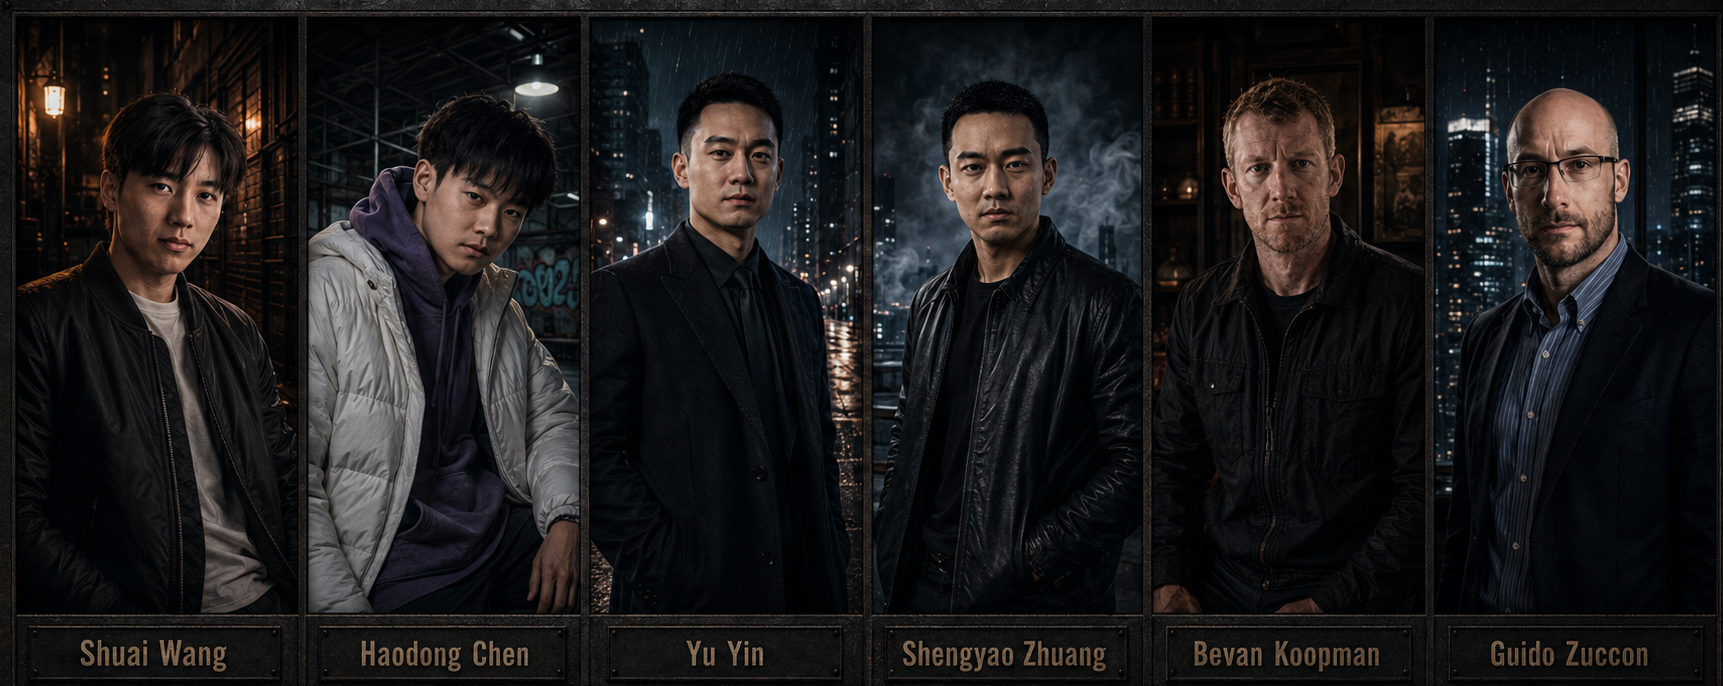
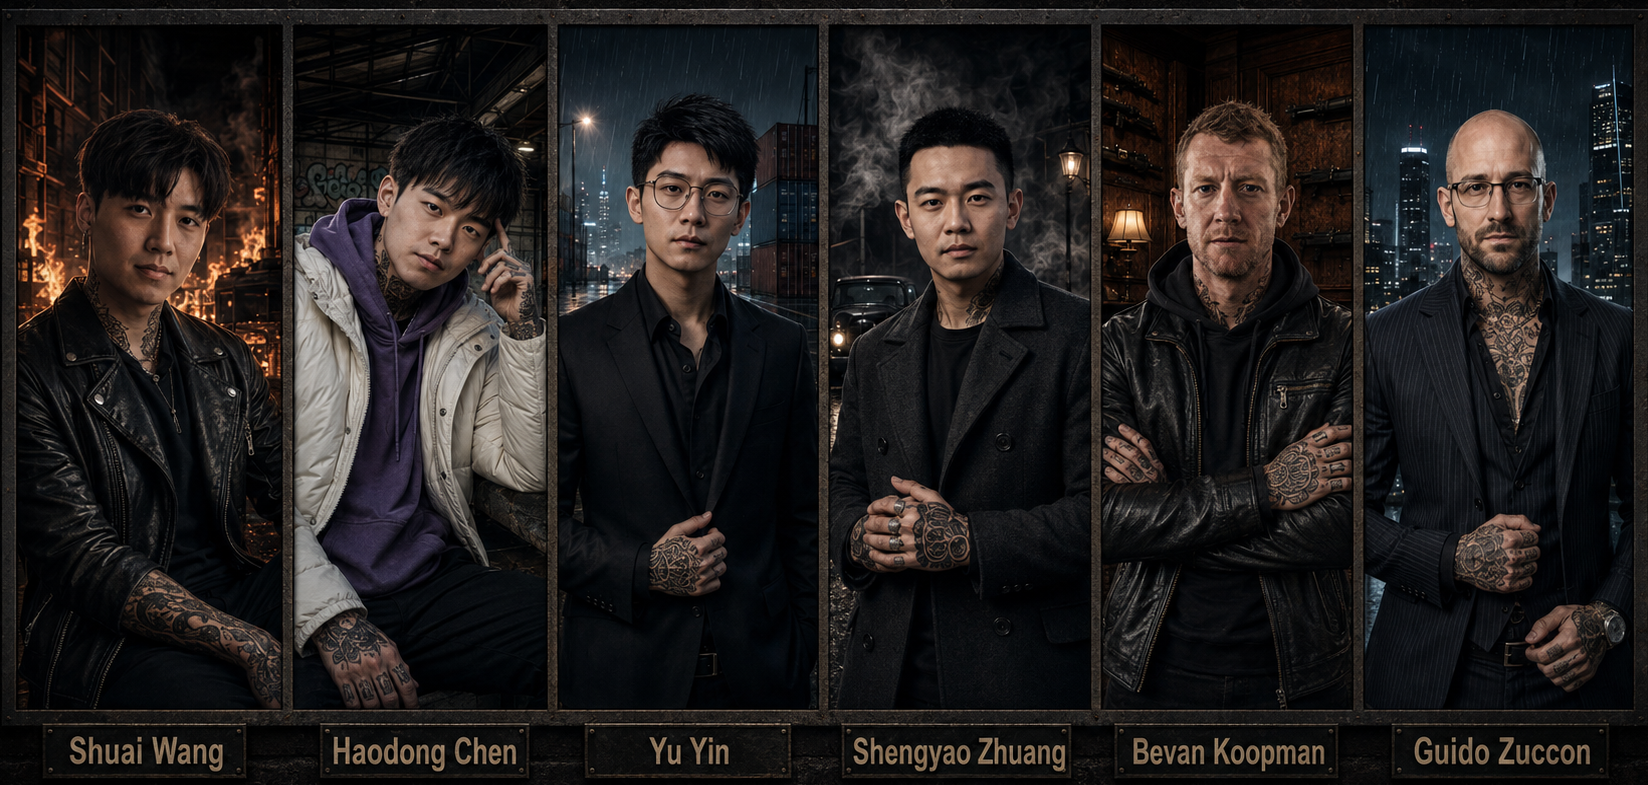
update

diff --git a/docs/index.html b/docs/index.html
@@ -830,51 +830,53 @@ const I18N = [
   ['h1', 0, '<span class="a">Search.</span> <span class="b">Inspect.</span> <span class="c">Fetch.</span>',
    '<span class="a">Hunt.</span> <span class="b">Interrogate.</span> <span class="c">Extract.</span>',
    '<span class="a">Hunt.</span> <span class="b">Interrogate.</span> <span class="c">Extract.</span>'],
-  ['.sub', 0, '一个可组合的深度研究智能体库：带上你自己的语料，就能构建并评测智能体。<b>Sieve</b> 是其中的布尔式「搜索、检视、取读」方法，让智能体先略读、再细读。'],
-  ['.cta .btn', 1, '阅读论文'], ['.cta .btn', 2, '&#9654; 试试在线演示'],
-  ['.caption', 0, '这块面板由一次真实的智能体运行驱动，不是视频',
-   'the night shift runs this exact board. Still not a video', '夜班跑的也是真实运行，依然不是视频'],
+  ['.sub', 0, '一个模块化的深度研究智能体库：换上自己的语料，就能搭建并评测各种检索策略。<b>Sieve</b> 是论文提出的方法，靠布尔检索让智能体<i>先略读，再细读</i>。'],
+  ['.cta .btn', 1, '阅读论文'], ['.cta .btn', 2, '&#9654; 在线演示'],
+  ['.caption', 0, '上面这段动画来自一次真实的智能体运行记录，不是视频',
+   'the night shift runs this exact board. Still not a video', '夜班跑的也是真实记录，还是不是视频'],
   ['#results .sec-k', 0, '主要结果'],
-  ['#results h2', 0, '准确率更高，token 最多省一半'],
-  ['#results .lead', 0, '与 BM25 Search&ndash;Visit 基线在完全相同的预算下对比（k=5，单次阅读上限 12,000 token，双方摘要均为 32 token，至多 100 步）。先略读结构并不是拿准确率换成本：三个数据集上，准确率和成本同时占优。'],
-  ['#results .stat .l', 0, 'BrowseComp-Plus 上每回合的 token 数，判分同时提高 <b>+2.5</b>'],
-  ['#results .stat .l', 1, 'MuSiQue 上的 token 数，EM 提高 <b>+3.1</b>。基线读得越多，省得越多'],
-  ['#results .stat .l', 2, '三个数据集全部做到准确率更高、成本更低'],
+  ['#results h2', 0, '准确率更高，token 开销少三到五成'],
+  ['#results .lead', 0, '在完全相同的预算下（k=5，单次阅读上限 12,000 token，双方摘要都是 32 token，最多 100 步）与 BM25 Search&ndash;Visit 基线对比。先略读结构并不是拿准确率换成本：三个数据集上，准确率和开销都是 Sieve 占优。'],
+  ['#results .stat .l', 0, 'BrowseComp-Plus 每回合 token 的降幅，评分还高出 <b>2.5</b> 分'],
+  ['#results .stat .l', 1, 'MuSiQue 的 token 降幅，EM 高出 <b>3.1</b>。基线读得越多，省得越多'],
+  ['#results .stat .l', 2, '三个数据集，全部做到准确率更高、开销更低'],
   ['#results table.res th', 0, '数据集'], ['#results table.res th', 1, '准确率（基线 → Sieve）'],
   ['#results table.res th', 2, '每回合 token'],
-  ['#results .lead', 1, '这一效果在不同的智能体底座上同样成立（Qwen-AgentWorld、OpenResearcher），基线消耗的上下文越多，节省越明显。完整表格、消融实验和统计检验见论文。'],
+  ['#results .lead', 1, '换到其他智能体底座（Qwen-AgentWorld、OpenResearcher），结论不变；基线读得越多，省得越明显。完整表格、消融实验和显著性检验见论文。'],
   ['#method .sec-k', 0, '方法'],
-  ['#method h2', 0, '先略读结构，只读要紧的部分'],
-  ['#method .lead', 0, '把整篇文档读进上下文的智能体，大半个窗口都花在用不上的文字上。Sieve 在同一个智能体循环之上拆出四个独立阶段，让智能体先收窄范围，再花钱阅读。'],
-  ['#method .st-card h3', 0, '过滤'], ['#method .st-card h3', 1, '排序'],
-  ['#method .st-card h3', 2, '检视'], ['#method .st-card h3', 3, '取读'],
-  ['#method .st-card p', 0, '智能体写一条 <b>BQL</b> 布尔查询：字段限定（<code>title</code>、<code>section</code>、<code>date</code> 等）配上 <code>AND</code>/<code>OR</code>/<code>NOT</code>、短语和前缀，把整个语料筛成一小批候选。'],
-  ['#method .st-card p', 1, '候选按相关性排序；严格过滤一旦筛到零命中，会自动放宽兜底。'],
-  ['#method .st-card p', 2, '每条结果是一张<b>结构卡片</b>：标题、小节名、命中字段、贴合查询的摘要。不读全文，也能判断这篇文档值不值得读。'],
-  ['#method .st-card p', 3, '智能体只取卡片上选中的<b>那一小节</b>，而不是整篇文档，然后依据读到的证据作答。'],
-  ['#method figcaption', 0, '四个阶段都建立在同一个智能体循环上，每一个都能单独替换。'],
+  ['#method h2', 0, '先看结构，再决定读什么'],
+  ['#method .lead', 0, '把整篇文档塞进上下文的智能体，大部分窗口都浪费在无关文字上。Sieve 把检索拆成四个独立阶段，接在同一个智能体循环上：先收窄范围，再花钱阅读。'],
+  ['#method .st-card h3', 0, '筛选'], ['#method .st-card h3', 1, '排序'],
+  ['#method .st-card h3', 2, '速览'], ['#method .st-card h3', 3, '取读'],
+  ['#method .st-card p', 0, '智能体写一条 <b>BQL</b> 布尔查询：字段限定（<code>title</code>、<code>section</code>、<code>date</code> 等）加上 <code>AND</code>/<code>OR</code>/<code>NOT</code>、短语和前缀，从整个语料里筛出一小批候选。'],
+  ['#method .st-card p', 1, '候选按相关性排序；条件太严筛到零结果时会自动放宽，不会空手而归。'],
+  ['#method .st-card p', 2, '每条结果是一张结构卡片：标题、小节名、命中的字段、和查询相关的摘要。不用读正文，就能判断这篇文档值不值得读。'],
+  ['#method .st-card p', 3, '智能体只读卡片里选中的那一小节，而不是整篇文档，再根据读到的内容作答。'],
+  ['#method figcaption', 0, '四个阶段跑在同一个智能体循环上，每个都能单独替换。'],
   ['#library .sec-k', 0, '代码库'],
-  ['#library h2', 0, '带上语料、模型和策略，其余框架都是现成的'],
-  ['#library .lead', 0, '一个智能体循环跑遍所有实验条件。语料、模型、检索器和工具集通过五个小协议接入；论文里的十几种条件（BM25、稠密、混合、Indri、DCI 以及各类 BQL 变体，覆盖文档和代码）每种只占注册表一行。'],
-  ['#library .feat h3', 0, '加新方法，一个装饰器搞定'],
-  ['#library .feat h3', 1, '评测完整，结果可复现'],
-  ['#library .feat h3', 2, 'BQL：写错查询也不怕'],
+  ['#library h2', 0, '语料、模型、策略随便换，评测框架是现成的'],
+  ['#library .lead', 0, '一个智能体循环跑所有实验。语料、模型、检索器和工具集通过五个小接口接入；论文里的十几种实验条件（BM25、稠密检索、混合、Indri、DCI、各种 BQL 变体，文档和代码都有）每种只需要在注册表里加一行。'],
+  ['#library .feat h3', 0, '一行注册新方法'],
+  ['#library .feat h3', 1, '结果一键复现'],
+  ['#library .feat h3', 2, 'BQL 查询，写错也不崩'],
   ['#library .feat h3', 3, '基线一应俱全'],
-  ['#library .feat p', 0, '新建一个文件，给构建函数加上 <code>@register("my_method")</code>，评测框架就会自动发现它，其他地方一行都不用改。'],
-  ['#library .feat p', 1, '命令行评测框架自带逐步 token 记账、LLM 判分和公开语料，论文里的表格一条命令就能重新生成。'],
-  ['#library .feat p', 2, '一门小巧的结构化查询语言，带参考执行器和 Lucene 后端。查询解析出错时，错误会作为观察返回给智能体自己修正，程序绝不会崩溃。'],
-  ['#library .feat p', 3, '论文里对比过的所有对照方法，包括先检索后阅读、整篇访问、稠密检索和 agentic grep，都在同一个循环下开箱即用。'],
-  ['#library figcaption', 0, '一个智能体循环居中，语料、模型、策略、检索器和评测器都围绕它独立替换。'],
+  ['#library .feat p', 0, '新建一个文件，给构建函数加上 <code>@register("my_method")</code>，评测框架会自动加载，其他地方一行都不用改。'],
+  ['#library .feat p', 1, '命令行评测自带每一步的 token 统计、LLM 评分和公开语料，论文里的表格一条命令就能重新跑出来。'],
+  ['#library .feat p', 2, '很小的一门结构化查询语言，带参考实现和 Lucene 后端。查询写错时，报错会作为观察结果返回给智能体自己改，程序不会崩。'],
+  ['#library .feat p', 3, '论文里所有对比方法都带上了：先检索后阅读、整篇阅读、稠密检索、agentic grep，全部跑在同一个循环里。'],
+  ['#library figcaption', 0, '中间是同一个智能体循环，语料、模型、策略、检索器和评测器都可以独立替换。'],
   ['#demo .sec-k', 0, '演示', 'The crime scene', '案发现场'],
-  ['#demo h2', 0, '用你自己的问题，看它怎么想',
-   'Watch it prowl, with your own questions', '用你的问题，看它夜里怎么巡'],
-  ['.badge', 0, '预录回放。真正的演示在你自己的电脑上运行',
-   'pre-recorded s&eacute;ance &middot; the real thing haunts your machine', '预录的降灵回放。真家伙在你自己的电脑里出没'],
+  ['#demo h2', 0, '提个问题，看它怎么找答案',
+   'Watch it prowl, with your own questions', '夜里提个问题，看它怎么查案'],
+  ['.badge', 0, '预先录制的回放，完整版要在自己电脑上跑',
+   'pre-recorded s&eacute;ance &middot; the real thing haunts your machine', '深夜档回放，完整版在你电脑里出没'],
   ['#pvReplay', 0, '&#8635; 重播'],
-  ['.demo-band h3', 0, '在线演示：两个策略，同一个问题，现场对决。'],
-  ['.demo-band p', 0, '在 101 篇真实的 BrowseComp-Plus 文档上随便提问。小侦探在工具站之间来回跳，文档墙随着检索和阅读一格格亮起，计费表实时累计每个 token、每一分钱。让 <b style="color:var(--teal)">Sieve</b> 和 <b style="color:var(--violet)">Search-Visit</b> 同场竞速，论文的结论就在你眼前发生。'],
-  ['#team .sec-k', 0, '团队'], ['#team h2', 0, '出自 ielab', 'The ielab night shift', 'ielab 夜班组'],
-  ['#cite .sec-k', 0, '引用'], ['#cite h2', 0, '如果你用到 Sieve 或这套代码库'],
+  ['.demo-band h3', 0, '同一个问题，两种策略，现场对决。'],
+  ['.demo-band p', 0, '在 101 篇真实的 BrowseComp-Plus 文档上随便提问。小家伙在各个工具之间跑来跑去，右边的文档墙亮一格就代表读过一篇，计费器实时显示每个 token 花了多少钱。让 <b style="color:var(--teal)">Sieve</b> 和 <b style="color:var(--violet)">Search-Visit</b> 同时开跑，论文的结论当场验证。'],
+  ['#team .sec-k', 0, '团队'],
+  ['#team h2', 0, '我们来自 ielab', 'The ielab night shift', 'ielab 夜班组'],
+  ['#cite .sec-k', 0, '引用'],
+  ['#cite h2', 0, '用到了 Sieve 或这套代码，请引用'],
 ];
 const LBLS = {
   en: { final:'Final answer', grounded:'&check; grounded in the fetched section',
@@ -882,11 +884,11 @@ const LBLS = {
         note:'the same document, read two ways. Measured with the library&rsquo;s own tools.',
         inspect: n => 'inspecting ' + n + ' result cards: titles, section names, matched fields, snippets',
         pct: x => x + ' of the text, for the same answer.' },
-  zh: { final:'最终答案', grounded:'&check; 答案出自刚读的小节',
-        goldmatch:'&check; 与标准答案一致', why:'为什么更省',
-        note:'同一篇文档的两种读法，用库里自带的工具实测。',
-        inspect: n => '正在检视 ' + n + ' 张结果卡片：标题、小节名、命中字段和摘要',
-        pct: x => '只读了 ' + x + ' 的文本，答案一样。' },
+  zh: { final:'最终答案', grounded:'&check; 答案来自刚读的小节',
+        goldmatch:'&check; 和标准答案一致', why:'为什么更省',
+        note:'同一篇文档的两种读法，数字用库里的工具实测。',
+        inspect: n => '正在速览 ' + n + ' 张结果卡片：标题、小节名、命中字段、摘要',
+        pct: x => '只读了 ' + x + ' 的文本，答案相同。' },
 };
 let LANG = localStorage.getItem('sieve-lang') || 'en';
 const LBLS_NIGHT = {
@@ -895,11 +897,11 @@ const LBLS_NIGHT = {
         note:'the same document, read two ways. Measured with the library&rsquo;s own tools.',
         inspect: n => 'interrogating ' + n + ' suspects: titles, section names, matched fields, snippets',
         pct: x => x + ' of the text, same verdict.' },
-  zh: { final:'判决', grounded:'&check; 从取读的小节里挖出来的',
-        goldmatch:'&check; 人赃并获，与标准答案一致', why:'为什么夜班更省',
-        note:'同一篇文档的两种读法，用库里自带的工具实测。',
-        inspect: n => '正在审讯 ' + n + ' 名嫌疑卡片：标题、小节名、命中字段和摘要',
-        pct: x => '只搜了 ' + x + ' 的文本，判决一样。' },
+  zh: { final:'宣判', grounded:'&check; 证据确凿，出自提取的小节',
+        goldmatch:'&check; 人赃并获，和标准答案一致', why:'为什么夜班更省',
+        note:'同一篇文档的两种读法，数字用库里的工具实测。',
+        inspect: n => '正在审讯 ' + n + ' 张嫌疑卡片：标题、小节名、命中字段、摘要',
+        pct: x => '只搜查了 ' + x + ' 的文本，判决相同。' },
 };
 function LBL(){ return (isNight() ? LBLS_NIGHT : LBLS)[LANG]; }
 const EN_SNAP = [];
